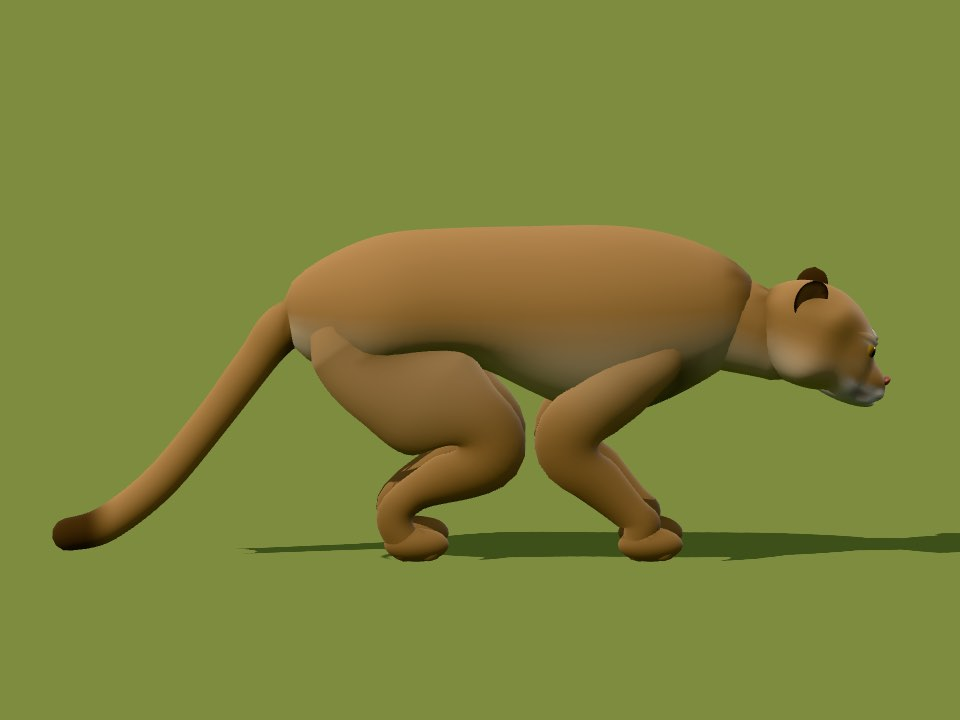
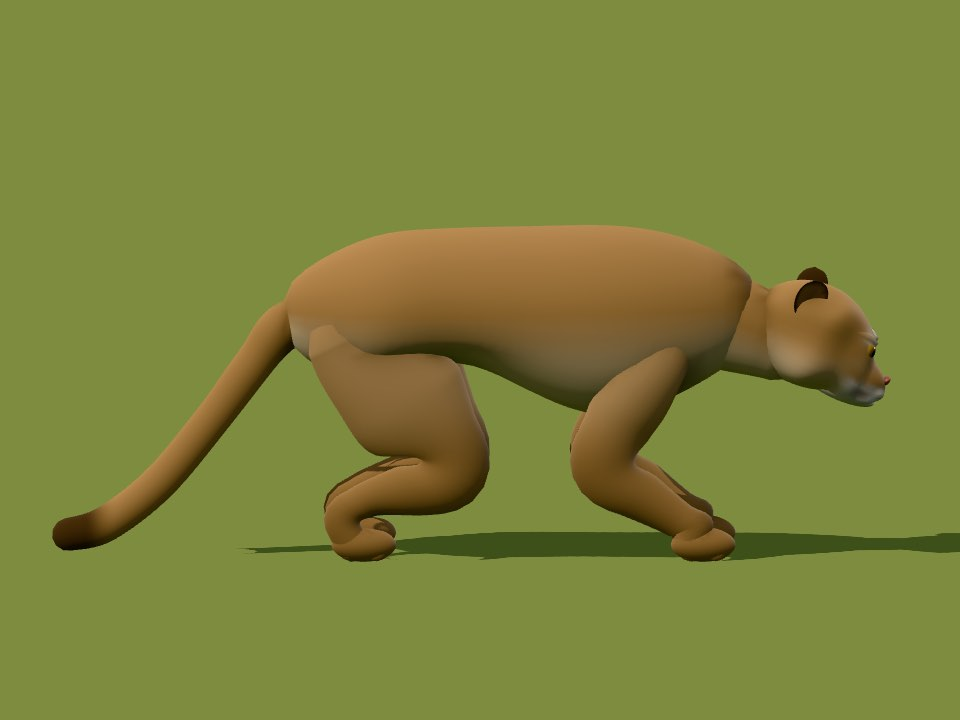
Stalking legs fold less at the hip and more at the knee, so elbows and knees stay apart and the paws plant wider (Cole)

Changed region(s): [[0.3125, 0.4889, 0.7812, 0.7944]]

diff --git a/js/render3d/animals/animal-material.js b/js/render3d/animals/animal-material.js
@@ -478,22 +478,26 @@ export function faunaMaterial(motion) {
         else if (aPart > 7.5 && aPart < 10.5) { p = mix(p, toSegment(p, uNeck, uSnout), wither); vMeat = wither * 0.7; }
       }
       // A crouching walker's leg folds at the knee, halfway down from the hip (feet stand at y 0):
-      // the thigh turns by a and the shin back by 2a, so the paw stays under the hip, raised by
-      // exactly drop, which the body is lowered by (headPose). Elbows go back, knees forward.
+      // the thigh turns by t and the shin back past it to s, the paw raised by exactly drop, which the
+      // body is lowered by (headPose). Elbows go back, knees forward.
       // The paw turns back level about the ankle (lifted by what that turn would sink it), the knee bends
       // over a broad band so it rounds instead of creasing, and the leg's top, up inside the body, stays
       // with the body instead of swinging out of the rump (the cougar's stalk, Cole 2026-11-27).
       void foldLeg(inout vec3 p, inout vec3 n, float drop) {
-        float H = max(aPivot.y, 1e-3);
-        float a = acos(clamp(1.0 - drop / H, 0.4, 1.0)) * (aPart < 2.5 ? -1.0 : 1.0);
+        // (The upper leg turns less than the shin, t then s, so elbows and knees stay apart under the
+        // body instead of meeting, and the paws plant wider, the fore ones forward and the hind back, as
+        // a stalking cat's do: cos t + cos s = 2(1 - drop/H) keeps the paw on the ground.)
+        float H = max(aPivot.y, 1e-3), c0 = clamp(1.0 - drop / H, 0.4, 1.0), sg = aPart < 2.5 ? -1.0 : 1.0;
+        float t = 0.55 * acos(c0), s = acos(clamp(2.0 * c0 - cos(t), -1.0, 1.0));
+        t *= sg; s *= sg;
         float top = 1.0 - smoothstep(H * 0.8, H * 1.1, p.y); // (the thigh or shoulder: none of the turn up inside the body)
         float w = 1.0 - smoothstep(H * 0.36, H * 0.64, p.y); // (the shin)
         float wp = 1.0 - smoothstep(H * 0.1, H * 0.2, p.y); // (the paw)
-        vec3 knee = rotZ(vec3(aPivot.x, H * 0.5, aPivot.z), aPivot, a);
-        vec3 ankle = rotZ(rotZ(vec3(aPivot.x, H * 0.15, aPivot.z), aPivot, a), knee, -2.0 * a);
-        p = rotZ(rotZ(p, aPivot, a * top), knee, -2.0 * a * w);
-        p = rotZ(p, ankle, a * wp); p.y += wp * H * 0.15 * (1.0 - cos(a));
-        n = rotZ(n, vec3(0.0), a * top - 2.0 * a * w + a * wp);
+        vec3 knee = rotZ(vec3(aPivot.x, H * 0.5, aPivot.z), aPivot, t);
+        vec3 ankle = rotZ(rotZ(vec3(aPivot.x, H * 0.15, aPivot.z), aPivot, t), knee, -(t + s));
+        p = rotZ(rotZ(p, aPivot, t * top), knee, -(t + s) * w);
+        p = rotZ(p, ankle, s * wp); p.y += wp * H * 0.15 * (1.0 - cos(s));
+        n = rotZ(n, vec3(0.0), t * top - (t + s) * w + s * wp);
       }
       // Rotate lighting normals alongside each rigid part. Birds also flex the outer wing and
       // interpolate a compact resting tail into a modest flight fan; other fauna keep their poses.

diff --git a/docs/decisions/0018-animal-close-up-shading.md b/docs/decisions/0018-animal-close-up-shading.md
@@ -17,7 +17,7 @@
 - The cougar (plain-coat `feline`, 2026-11-26) was fitted that way, step by step with Cole: legs, tail, head carriage against side-on photos; the face against two profile and one head-on photo (head mode in the overlay page, lined up by nose tip and ear root; `motion.faceMarks` is for review tools only). Its eyes are painted on the eyeball (`cougarEye`: iris, pupil, rim) and sit under a brow ridge with a tear line, as the lion's do. `quadruped()` options it added all default to the old look: `thighBack`, `stifle`, `paw`, `legSub`, `eyeFwd`, `eyeColor` (a painter is allowed; with `gaze` the eyeball turns to look along it, so a painted pupil stays round), `noseColor`, `muzzleDepth`, `jawDepth`, `earTurn`, `earUp`, `earSide`, `crown` (skull wider across its upper half), `skullUnder` (underside pulled up behind the jaw).
 - The black-tailed deer (2026-11-26, aesthetics s7) was fitted the same way behind `slender: true` on its sprite (the deer builder also draws the elk, sambar and white-tailed deer, unchanged): `deerFace` markings, `deerEye`. New `quadruped()` options, all defaulting to the old look: `earFwd` (ear root along the skull), `noseSize`, `headSeg` (head rings only), `eyeFar` (a plain eye on the usual model, the painted one on the close-up), `flatBack` (a level back), `thighZ` (a narrower thigh top), `thighUp` (the thigh's top raised toward the tail), `thighTaper` (the thigh narrowing into the rump, no shelf); ear shape `deer` (pinched root); `earTurn` now also turns pointed ears. `col()` returns a shared cached colour: clone it before `lerp`.
 - Face marks and ridges laid on the head (2026-11-27, cougar face): `surfaceStrip(m, [m.headGeo], from, pts, o)` (`model-core.js`) casts from inside the head onto its built surface and lays a strip there whose edges take the surface's own colour and normal, fading out at both ends, so a brow ridge (`lift`), tear mark or mouth line (`strength` toward `color`) reads as fur, never as a piece stuck on; `surfacePatch` does the same for a round swelling (whisker pads). Use it instead of ellipsoids or tubes over the face. `m.headGeo` is the painted head loft. New `quadruped()` options, all defaulting to the old look: `browAt` (where the loft's brow ridge stands), `bridge` (how gently the forehead runs into the muzzle), `pads` (whisker pads swelling the muzzle's lower front; fades to nothing at the tip, which closes to a point), `earWidth` (round ears' width), `cleft`, `muzzleTaper`, `muzzleBlend`; body `haunchBulk`, `arch`, `shoulderTaper`, paws `pawH`, `pawW`, `toes: 4`.
-- Crouch (stalking, frozen): `foldLeg` (`animal-material.js`) folds each leg at the knee, halfway down from the hip; the paw turns back level about the ankle, the knee bends over a broad band, and the leg's top inside the body doesn't turn (2026-11-27). See it in the review page with `?pose=stalk`; run the motion sweep (`sunk`) after changing it.
+- Crouch (stalking, frozen): `foldLeg` (`animal-material.js`) folds each leg at the knee, halfway down from the hip, the upper leg less than the shin so elbows and knees stay apart and the paws plant wider (Cole: not "almost touching"); the paw turns back level about the ankle, the knee bends over a broad band, and the leg's top inside the body doesn't turn (2026-11-27). See it in the review page with `?pose=stalk`; run the motion sweep (`sunk`) after changing it.
 - Review: `http://localhost:8347/tools/animal-closeup-review.html` (`?bench=1`, `?model=close`, `map:key:male`), `node tools/animal-closeup-capture.mjs`. Cost: `?bench=1` and `play-profile` (`PLAY_VIEWS=closest`).
 
 ## History

diff --git a/docs/ideas/2026-11-27-cougar-face/README.md b/docs/ideas/2026-11-27-cougar-face/README.md
@@ -46,4 +46,6 @@ Stalk (pictures `cougar-stalk-*`): Cole saw the legs "weird and bent" in stalk m
 down, tipped the paws up and swung the thigh's top out of the rump. Now the paw turns back level about
 the ankle (lifted by what that would sink it), the knee bends over a broad band, and the leg's top
 inside the body stays put. The review page has a "Stalking (crouched)" pose (`?pose=stalk`).
-Motion sweep, all maps: within limits.
+Then "too bent in, almost touching": the upper leg now turns less than the shin (t = 0.55 of the old
+angle, s solved so the paw stays on the ground), so elbows and knees stay apart and the paws plant wider,
+fore ones forward and hind back. Motion sweep, all maps: within limits.
